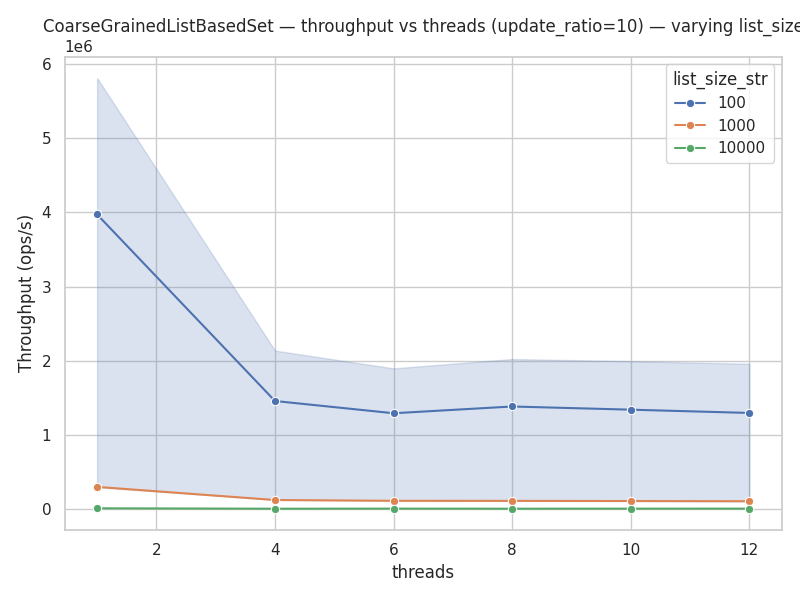
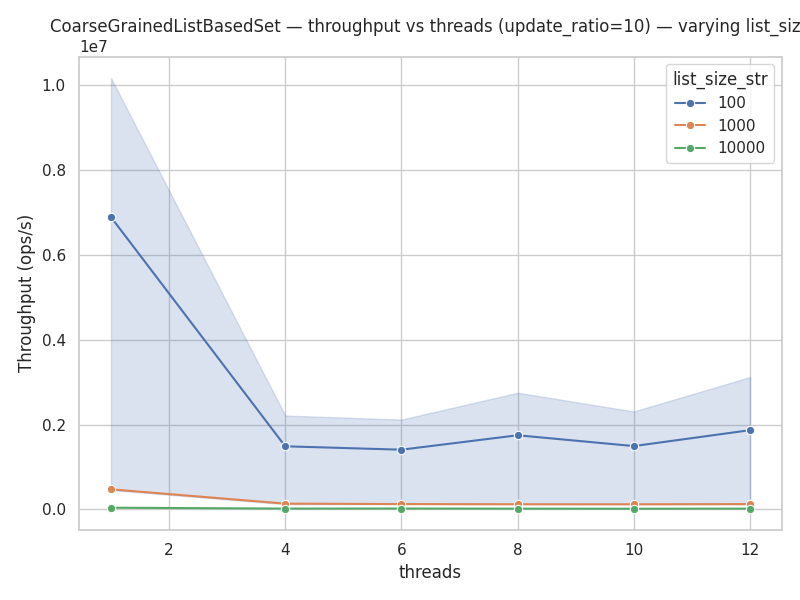
Add HoH waitFreeContains approach
- Measure results, obtain graphs

diff --git a/code/src/linkedlists/lockbased/HandOverHandListIntSetWaitFreeCont.java b/code/src/linkedlists/lockbased/HandOverHandListIntSetWaitFreeCont.java
@@ -1,0 +1,166 @@
+package linkedlists.lockbased;
+
+import java.util.concurrent.locks.Lock;
+import java.util.concurrent.locks.ReentrantLock;
+
+import contention.abstractions.AbstractCompositionalIntSet;
+
+public class HandOverHandListIntSetWaitFreeCont extends AbstractCompositionalIntSet {
+
+    // sentinel nodes
+    private Node head;
+    private Node tail;
+
+    public HandOverHandListIntSetWaitFreeCont(){
+        head = new Node(Integer.MIN_VALUE);
+        tail = new Node(Integer.MAX_VALUE);
+        head.next = tail;
+    }
+
+    /*
+     * Insert (hand-over-hand). Cleans up marked nodes it encounters.
+     */
+    @Override
+    public boolean addInt(int item) {
+        head.lock();
+        Node pred = head;
+        try {
+            Node curr = pred.next;
+            curr.lock();
+            try {
+                // traverse with lock-coupling
+                while (curr.key < item) {
+                    // help unlink logically deleted nodes
+                    if (curr.marked) {
+                        pred.next = curr.next;
+                        curr.unlock();
+                        curr = pred.next;
+                        curr.lock();
+                        continue;
+                    }
+                    pred.unlock();
+                    pred = curr;
+                    curr = curr.next;
+                    curr.lock();
+                }
+                // help unlink if the target is logically deleted
+                if (curr.marked) {
+                    pred.next = curr.next;
+                    curr.unlock();
+                    curr = pred.next;
+                    curr.lock();
+                }
+                // if key already present and not marked, fail
+                if (curr.key == item && !curr.marked) {
+                    return false;
+                }
+                // insert new node between pred and curr
+                Node newNode = new Node(item);
+                newNode.next = curr;
+                pred.next = newNode; // linearization point for add
+                return true;
+            } finally {
+                curr.unlock();
+            }
+        } finally {
+            pred.unlock();
+        }
+    }
+
+    /*
+     * Remove (hand-over-hand). Logical delete (mark) then physical unlink.
+     */
+    @Override
+    public boolean removeInt(int item){
+        head.lock();
+        Node pred = head;
+        try {
+            Node curr = pred.next;
+            curr.lock();
+            try {
+                // traverse with lock-coupling
+                while (curr.key < item) {
+                    // help unlink logically deleted nodes
+                    if (curr.marked) {
+                        pred.next = curr.next;
+                        curr.unlock();
+                        curr = pred.next;
+                        curr.lock();
+                        continue;
+                    }
+                    pred.unlock();
+                    pred = curr;
+                    curr = curr.next;
+                    curr.lock();
+                }
+                // at position: curr.key >= item; clean if marked
+                if (curr.marked) {
+                    pred.next = curr.next;
+                    return false;
+                }
+                if (curr.key == item) {
+                    // logical deletion
+                    curr.marked = true;          // removal linearizes here
+                    // physical removal
+                    pred.next = curr.next;
+                    return true;
+                }
+                return false;
+            } finally {
+                curr.unlock();
+            }
+        } finally {
+            pred.unlock();
+        }
+    }
+
+    /*
+     * Contains — wait-free and linearizable.
+     * Traverses without locks and ignores logically deleted nodes.
+     */
+    @Override
+    public boolean containsInt(int item){
+        Node curr = head;
+        // single forward pass, no locking
+        while (curr.key < item) {
+            curr = curr.next;
+        }
+        return (curr.key == item) && !curr.marked;
+    }
+
+    /* Node class - representing the list's nodes */
+    private static class Node {
+        final int key;
+        volatile Node next;
+        volatile boolean marked = false; // logical deletion flag
+        private final Lock lock = new ReentrantLock();
+
+        Node(int item) {
+            this.key = item;
+            this.next = null;
+        }
+        void lock()   { lock.lock(); }
+        void unlock() { lock.unlock(); }
+    }
+
+    @Override
+    public void clear() {
+        head = new Node(Integer.MIN_VALUE);
+        tail = new Node(Integer.MAX_VALUE);
+        head.next = tail;
+    }
+
+    /**
+     * Non atomic and thread-unsafe
+     */
+    @Override
+    public int size() {
+        int count = 0;
+        Node curr = head.next;
+        while (curr.key != Integer.MAX_VALUE) {
+            if (!curr.marked) count++;
+            curr = curr.next;
+        }
+        return count;
+    }
+}

diff --git a/README.md b/README.md
@@ -4,6 +4,9 @@ This is a java project in which an optimistic lock-based list is implemented in 
 # Results
 <img title="Results" alt="Results" src="docs/AllAlgorithmsCompared.png">
 
+### Wait free HoH improves performance as seen below:
+<img titke="Results" alt="Results" src="docs/AllAlgorithmsCompared2.png">
+
 # Contents
 - [How to setup the project](#how-to-run-this-project)
 - [Experiment runs on VMs](#remote-runs-infres)
